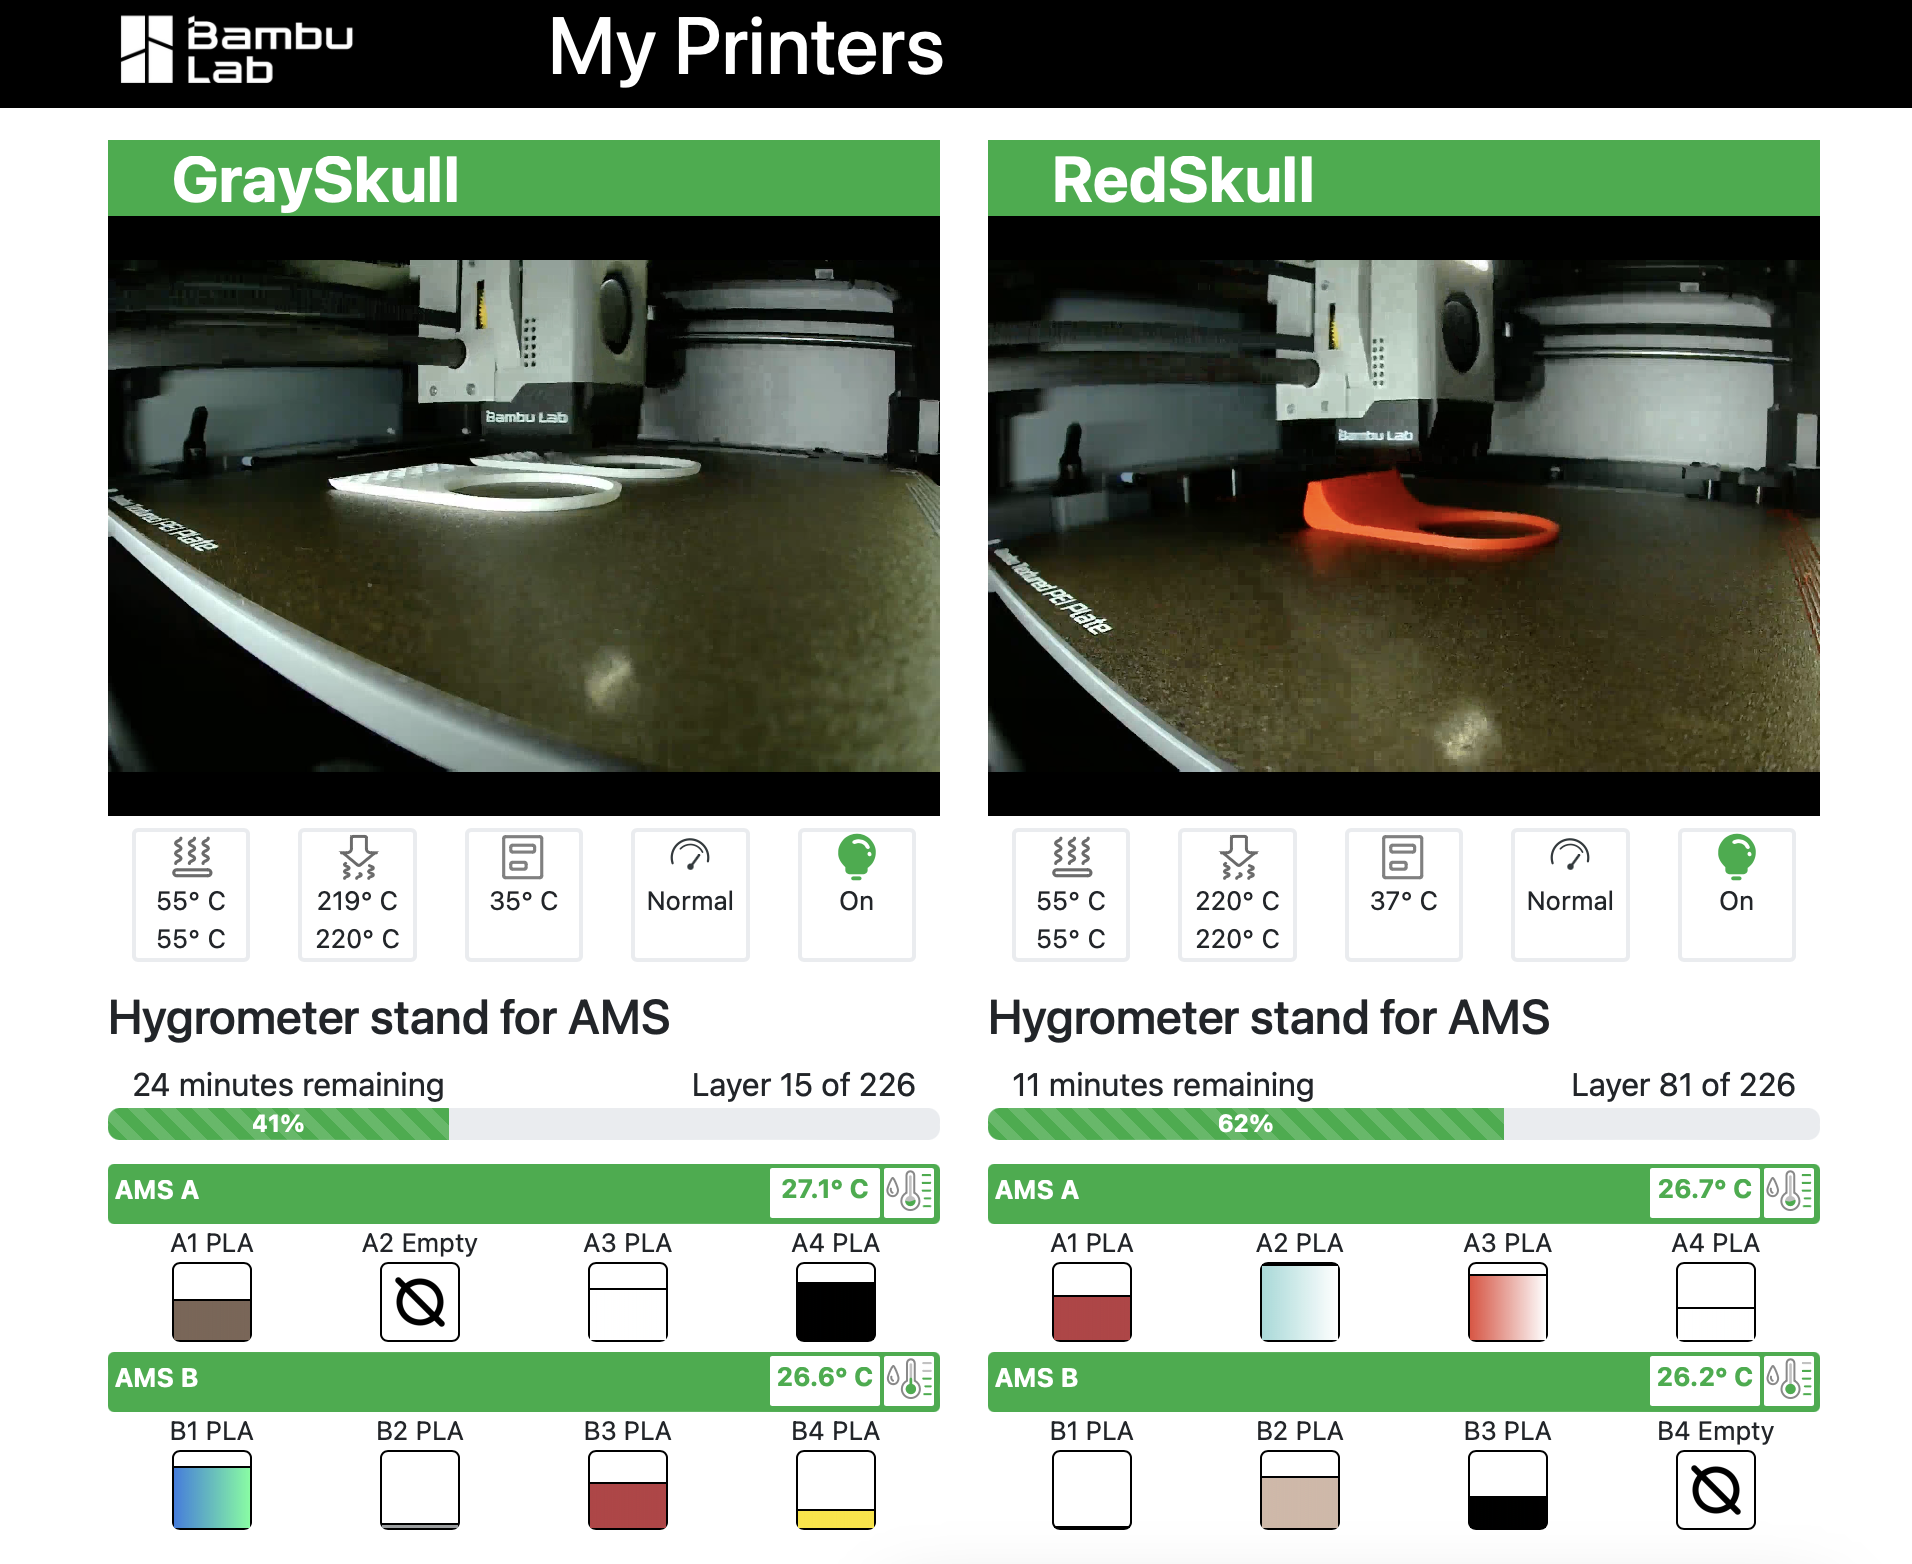
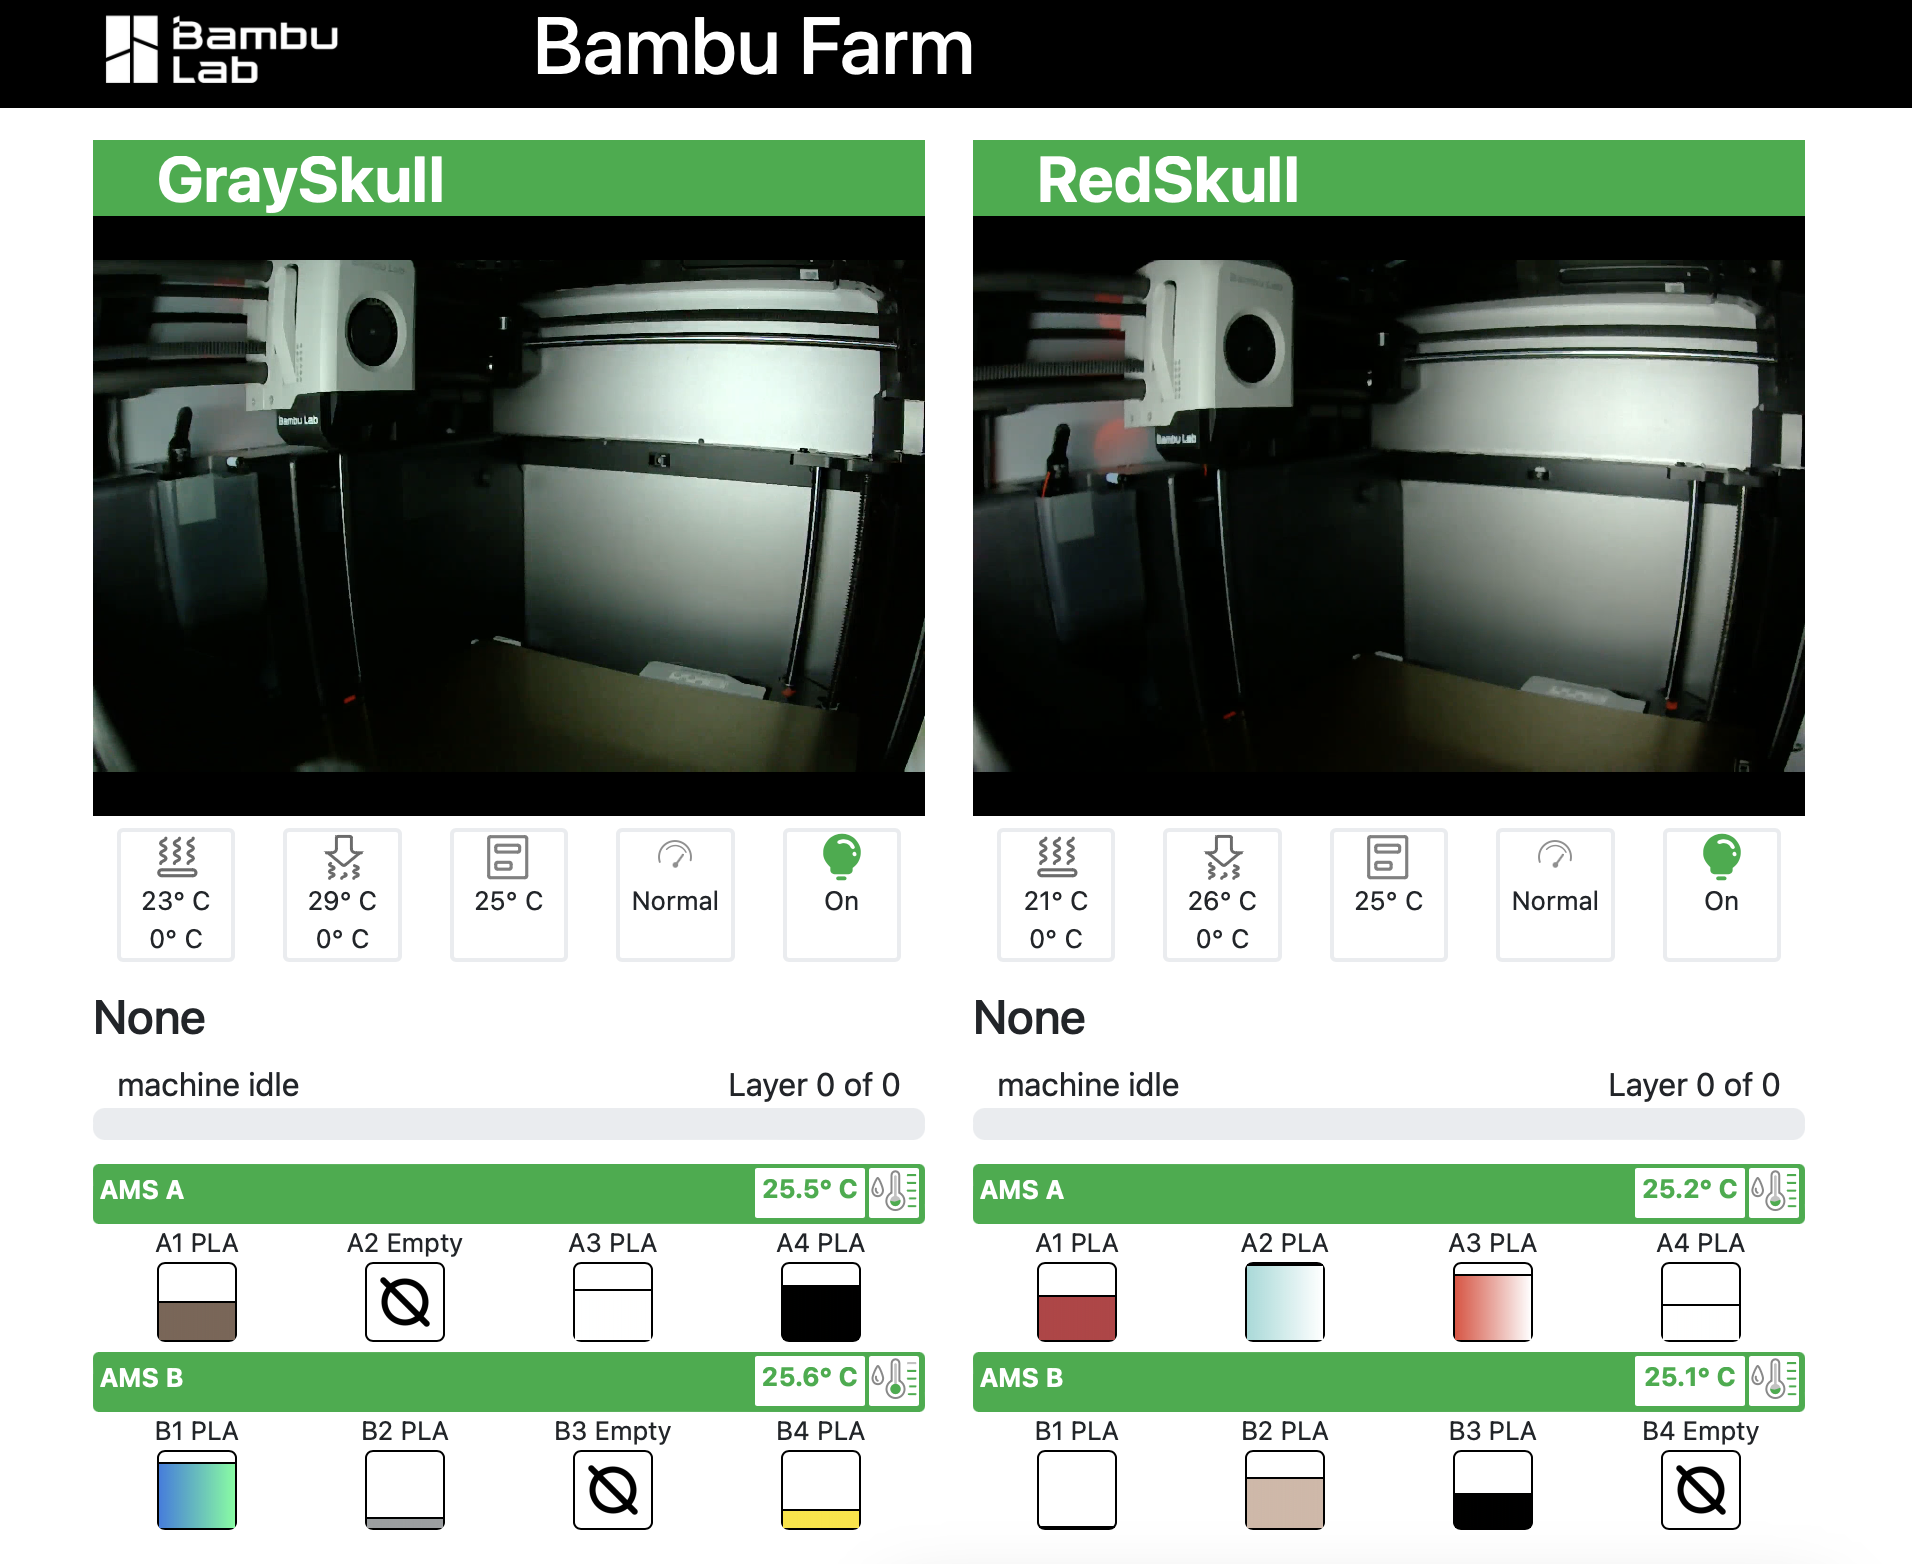
Added Dark Mode and remote viewing

diff --git a/app/public/js/site.js b/app/public/js/site.js
@@ -1,13 +1,24 @@
 const tooltipTriggerList = document.querySelectorAll('[data-bs-toggle="tooltip"]');
 const tooltipList = [...tooltipTriggerList].map(tooltipTriggerEl => new bootstrap.Tooltip(tooltipTriggerEl));
 
-const WS_SERVER = "ws://127.0.0.1:9999/";
+
+
+// Setting the WS & video stream to the proper IP if this container
+// isn't loaded from localhost..
+const HOST = location.hostname;
+const WS_SERVER = `ws://${HOST}:9999/`;
+window.MACHINES.forEach((machine) => {
+    const src = `http://${HOST}:8888/${machine.id}`;
+    const sel = `.machine_${machine.id} iframe`;
+    const el = document.querySelector(sel);
+    el.src = src;
+});
 
 const connect = () => {
     const ws = new WebSocket(WS_SERVER);
     ws.onmessage = (event) => {
         const json = JSON.parse(event.data);
-        //console.log(json.data);
+        console.log(json.data);
         if (json.data && json.data.ams) {
             handleAMS(json);
         }

diff --git a/app/public/css/site.css b/app/public/css/site.css
@@ -11,6 +11,22 @@ header img {
     height: 50px;
 }
 
+header img.github {
+    filter: invert(100%) sepia(100%) saturate(0%) hue-rotate(288deg) brightness(102%) contrast(102%);
+    height: 25px;
+    width: 25px;
+}
+
+header a {
+    color: #fff;
+    text-decoration: none;
+}
+
+header .wrapper {
+    height: 100%;
+    padding-top: 1em;
+}
+
 .machine {
     margin-top: 1em;
 }
@@ -97,6 +113,7 @@ header img {
     background-image: url(/img/empty.png);
     background-size: contain;
     background-repeat: no-repeat;
+    background-color: #fff;
 }
 
 .machine .icons {
@@ -114,4 +131,18 @@ header img {
     border-radius: 3px;
     width: 100%;
     height: 100%;
+}
+
+@media (prefers-color-scheme: dark) {
+    body {
+        background-color: #121212;
+        color: #fff;
+    }
+    header {
+        background-color: #00AE42;
+        color: #fff;
+    }
+    .machine .ams .color_box {
+        border-color: #fff;
+    }
 }

diff --git a/README.md b/README.md
@@ -1,6 +1,7 @@
 # BambuLab Printer Farm Monitor
 
-![Screenshot](docs/shot.png?raw=true "Screenshot")
+![Screenshot Light](docs/shot.png?raw=true "Screenshot Light Mode")
+![Screenshot Dark](docs/shot-dark.png?raw=true "Screenshot Dark Mode")
 
 
 You need to have Docker installed an running: https://www.docker.com/products/personal/
